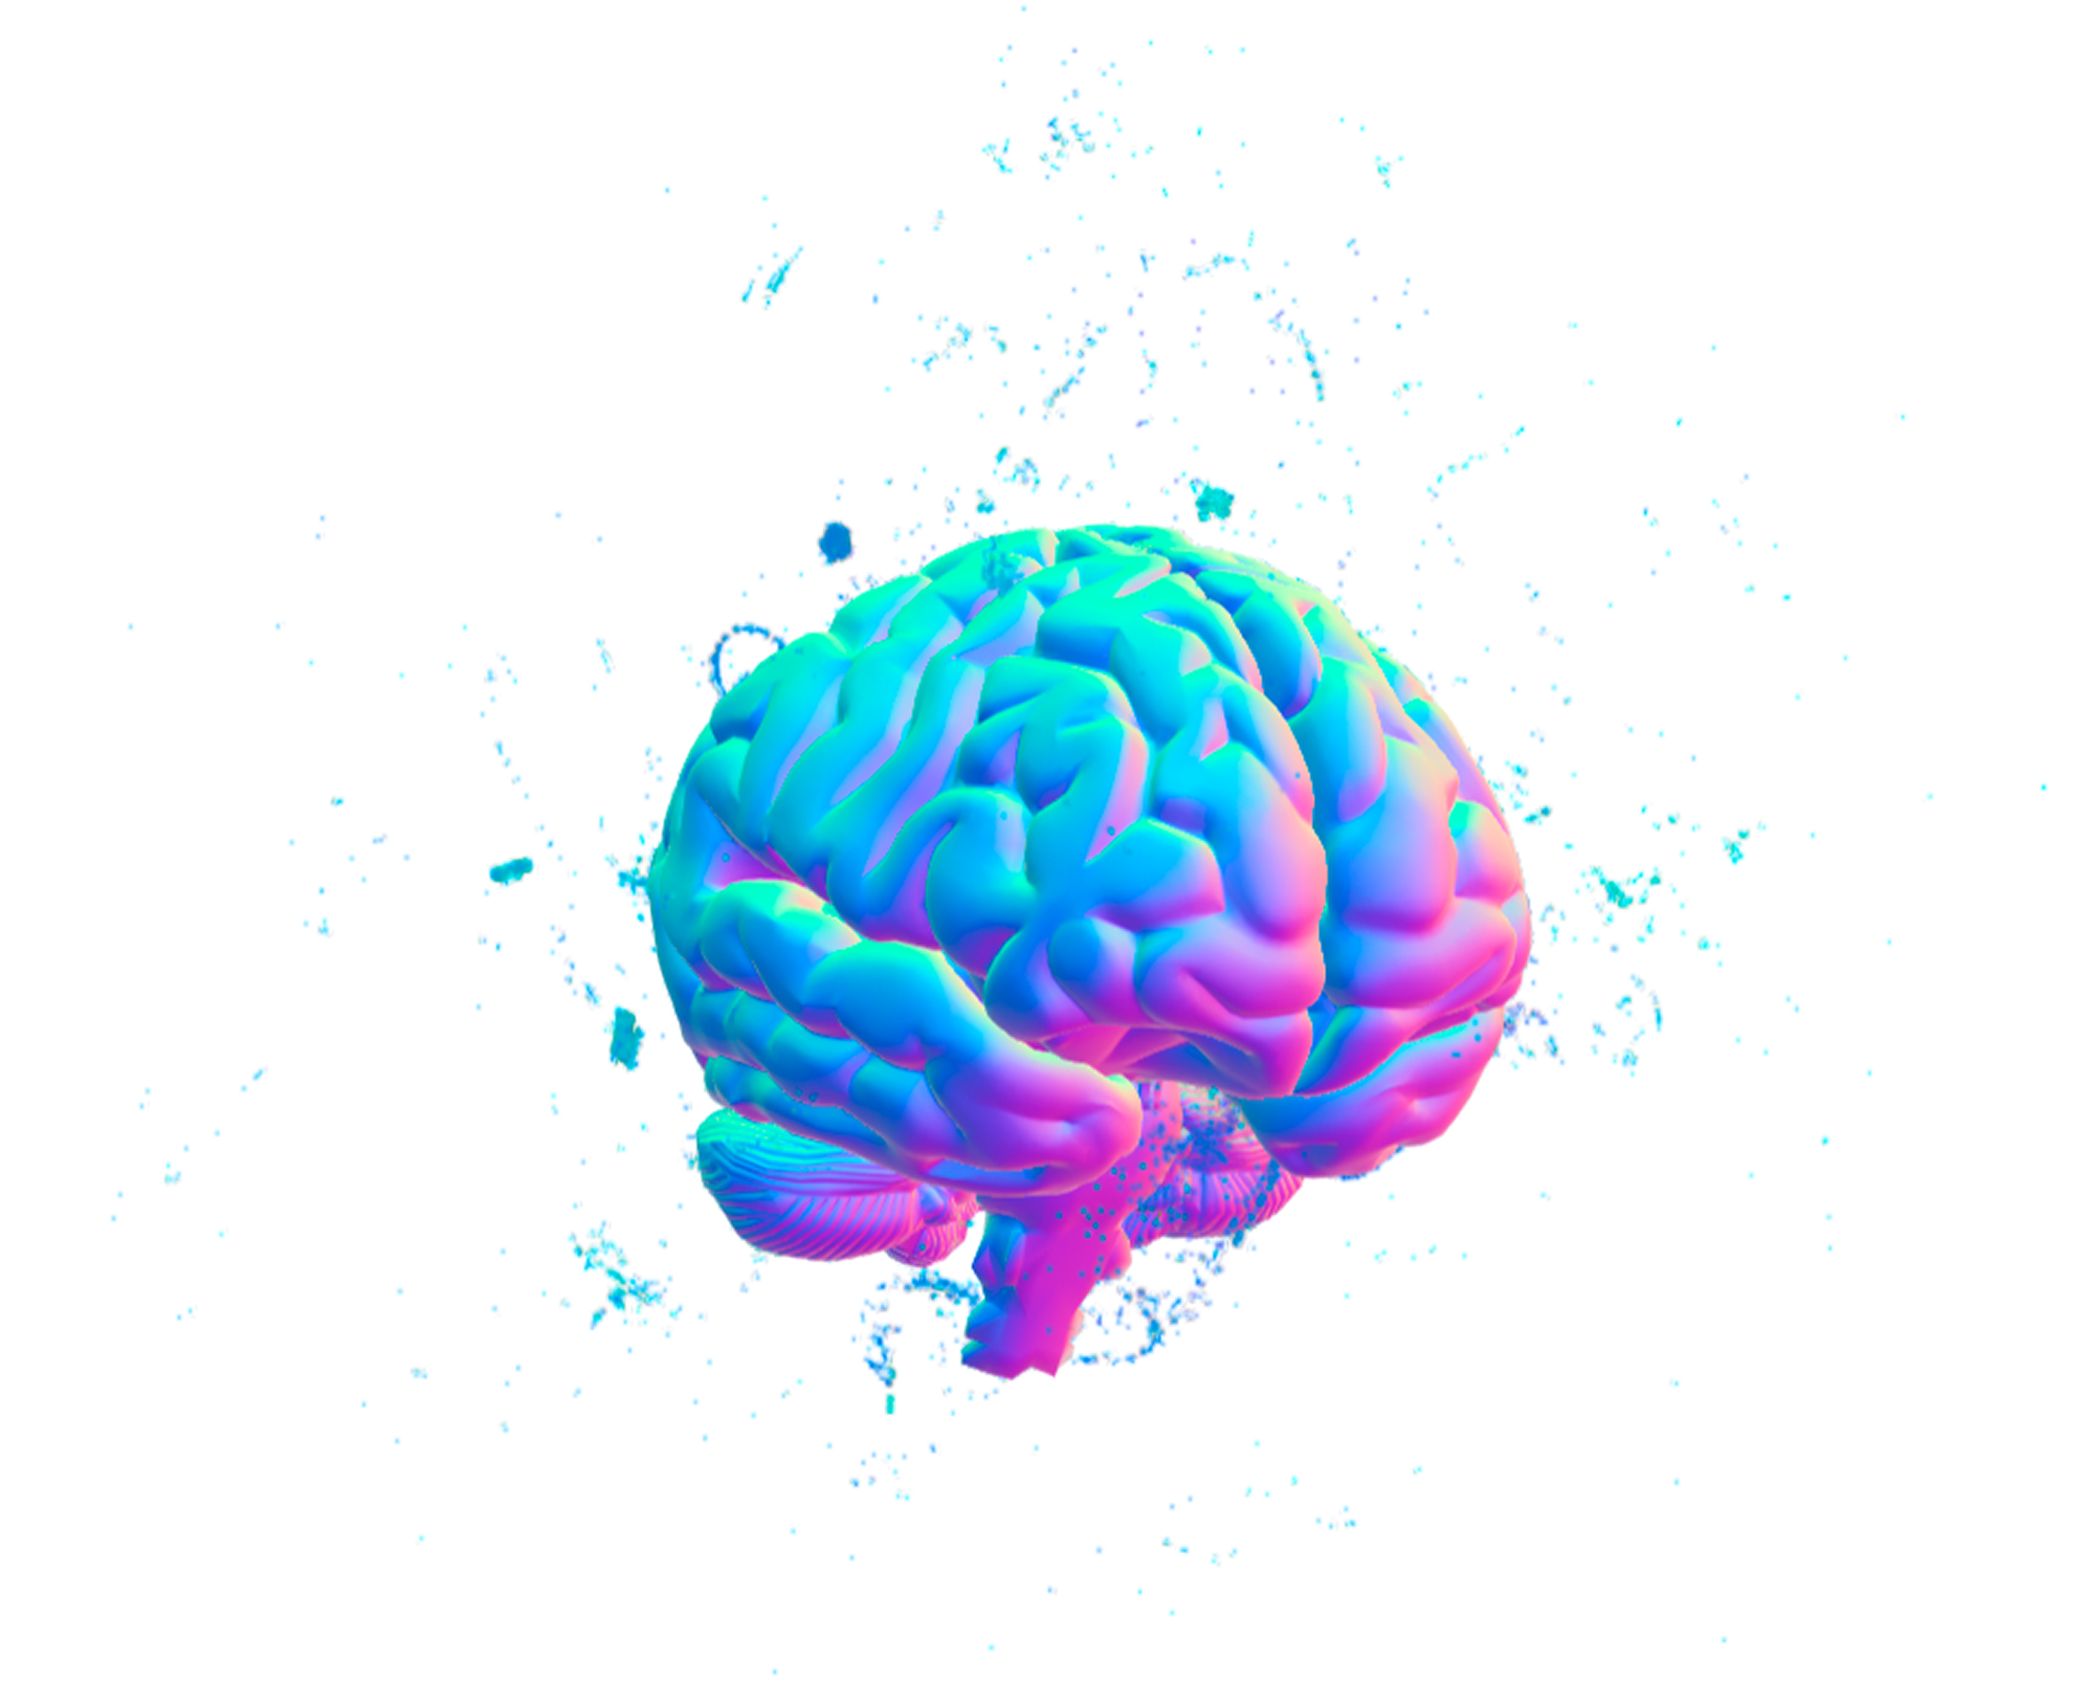
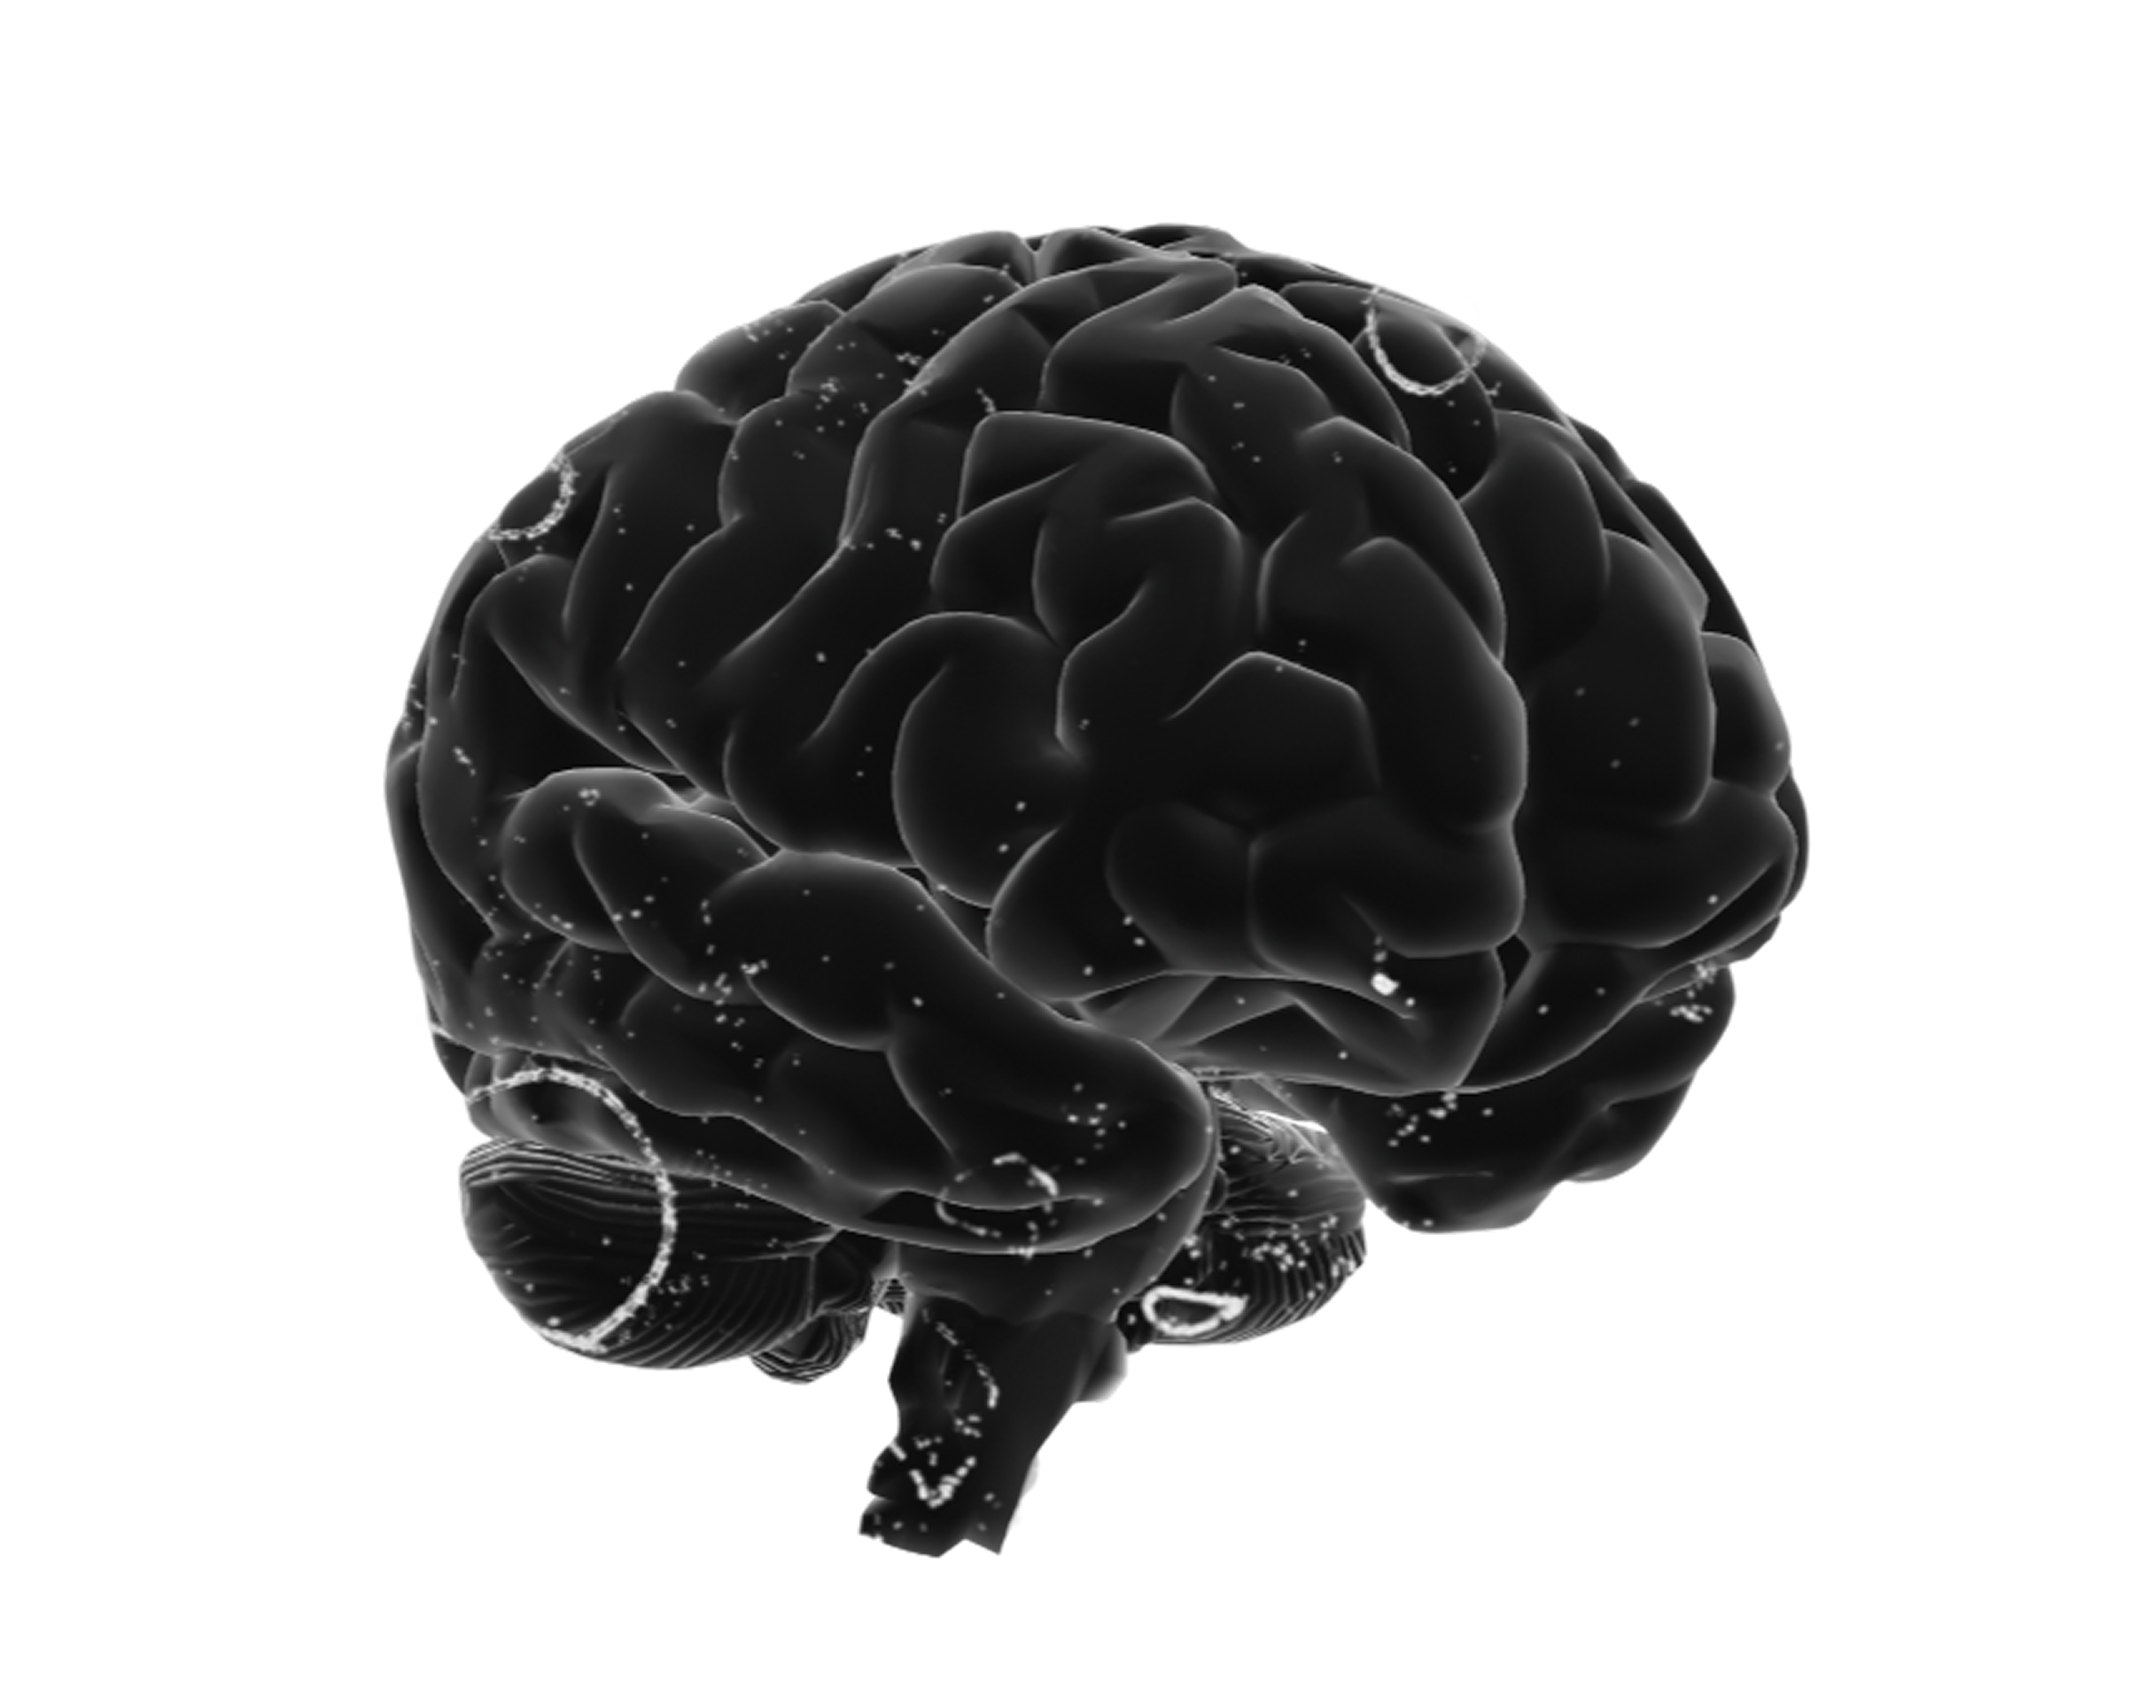
color scheme is changed

diff --git a/src/components/Navbar/index.tsx b/src/components/Navbar/index.tsx
@@ -34,7 +34,7 @@ export default function Header() {
   return (
     <header className="md:h-[150px] w-full mx-auto flex justify-center items-center navbar-gradient px-4">
       <div className="w-full max-w-[1260px] mx-auto mt-[51px]">
-        <div className=" rounded-[24px] p-[2px] overflow-hidden bg-gradient-to-b from-[#5F27CD] to-[#00CEC9] max-w-[1260px]">
+        <div className=" rounded-[24px] p-[2px] overflow-hidden border border-[#0F0F1A] max-w-[1260px]">
           <div className="w-full h-full bg-white rounded-[22px] flex items-center justify-between  mx-auto px-6 py-[20px] md:py-[20px] primary-shadow">
             <Link href="/" className="flex items-center">
               <Image
@@ -52,7 +52,7 @@ export default function Header() {
                 <Link
                   href="/"
                   className={cn(
-                    "text-primary text-[18px] ",
+                    "text-[#0F0F1A] text-[18px] ",
                     pathname === "/" && ""
                   )}
                 >
@@ -61,9 +61,9 @@ export default function Header() {
                 <Link
                   href="/#about"
                   className={cn(
-                    "text-primary text-[18px]",
+                    "text-[#0F0F1A] text-[18px]",
                     pathname === "/" &&
-                      "text-transparent bg-clip-text bg-gradient-to-r from-[#5F27CD] to-[#40E0D0]"
+                      "text-[#0F0F1A]"
                   )}
                 >
                   The Kognitiiv.ai Solution
@@ -71,7 +71,7 @@ export default function Header() {
                 <Link
                   href="/#capabilities"
                   className={cn(
-                    "text-primary text-[18px]",
+                    "text-[#0F0F1A] text-[18px]",
                     pathname === "/" && ""
                   )}
                 >
@@ -79,7 +79,7 @@ export default function Header() {
                 </Link>
               </nav>
 
-              <div className="p-[2px] rounded-[12px] bg-gradient-to-b from-[#5F27CD] to-[#00CEC9] md:inline-block hidden primary-shadow ">
+              <div className="p-[2px] rounded-[12px] border border-[#0F0F1A] md:inline-block hidden primary-shadow ">
                 <Button className="bg-white text-primary text-[18px] w-[180px] h-[50px] rounded-[10px]">
                   <Link href="/#contact-us">Join the Waitlist</Link>
                 </Button>
@@ -94,9 +94,9 @@ export default function Header() {
                 aria-label="Toggle menu"
               >
                 {mobileMenuOpen ? (
-                  <X color="#56AD37" size={24} />
+                  <X color="#0F0F1A" size={24} />
                 ) : (
-                  <Menu color="#56AD37" size={24} />
+                  <Menu color="#0F0F1A" size={24} />
                 )}
               </button>
             </div>
@@ -126,35 +126,35 @@ export default function Header() {
                     aria-label="Toggle menu"
                   >
                     {mobileMenuOpen ? (
-                      <X color="#56AD37" size={24} />
+                      <X color="#0F0F1A" size={24} />
                     ) : (
-                      <Menu color="#56AD37" size={24} />
+                      <Menu color="#0F0F1A" size={24} />
                     )}
                   </button>
                 </div>
                 
                 <Link
                   href="/"
-                  className="text-primary py-2 mt-6 font-rubik"
+                  className="text-[#0F0F1A] py-2 mt-6 font-rubik"
                   onClick={() => setMobileMenuOpen(false)}
                 >
                   The Problem
                 </Link>
                 <Link
                   href="/"
-                  className="text-primary py-2 font-rubik"
+                  className="text-[#0F0F1A] py-2 font-rubik"
                   onClick={() => setMobileMenuOpen(false)}
                 >
                   The Kognitiiv.ai Solution
                 </Link>
                 <Link
                   href="/"
-                  className="text-primary py-2 font-rubik"
+                  className="text-[#0F0F1A] py-2 font-rubik"
                   onClick={() => setMobileMenuOpen(false)}
                 >
                 How It Works
                 </Link>
-                <div className="p-[2px] rounded-[12px] bg-gradient-to-b from-[#5F27CD] to-[#00CEC9] primary-shadow ">
+                <div className="p-[2px] rounded-[12px] border border-[#0F0F1A] primary-shadow ">
                 <Button className="bg-white text-primary text-[18px] w-full h-[50px] rounded-[10px]">
                   <Link href="/">Join the Waitlist</Link>
                 </Button>

diff --git a/src/components/Signup/index.tsx b/src/components/Signup/index.tsx
@@ -16,21 +16,21 @@ const Signup = () => {
             height={214}
             className="w-full max-w-[588px]"
           />
-          <Text className="text-transparent text-center bg-clip-text bg-gradient-to-r from-[#5F27CD] to-[#40E0D0] text-[40px] font-semibold">
+          <Text className="text-transparent text-center text-[#0F0F1A] text-[40px] font-semibold">
             Kognitiiv.ai
           </Text>
         </div>
         <div className="w-full md:max-w-[514px] max-w-full">
           <form className="w-full max-w-full md:max-w-[514px] p-10 shadow-[0px_7px_29px_0px_#64646F33] bg-white rounded-[12px] mt-[60px] mb-[268px]">
             <div className="flex flex-col gap-[24px] md:flex-row mb-[30px]">
-              <div className="p-[2px] rounded-[12px] bg-gradient-to-b from-[#5F27CD] to-[#00CEC9]">
+              <div className="p-[2px] rounded-[12px] border border-[#0F0F1A]">
                 <input
                   type="text"
                   placeholder="Name"
                   className="px-[10px] py-[10px] w-full md:w-[150px] rounded-[10px] text-black outline-none bg-white border-none"
                 />
               </div>
-              <div className="p-[2px] rounded-[12px] bg-gradient-to-b from-[#5F27CD] to-[#00CEC9]">
+              <div className="p-[2px] rounded-[12px] border border-[#0F0F1A]">
                 <input
                   type="text"
                   placeholder="Last Name"
@@ -39,7 +39,7 @@ const Signup = () => {
               </div>
             </div>
 
-            <div className="p-[2px] rounded-[12px] bg-gradient-to-b from-[#5F27CD] to-[#00CEC9] mb-[30px]">
+            <div className="p-[2px] rounded-[12px] border border-[#0F0F1A] mb-[30px]">
               <input
                 type="email"
                 placeholder="Email"
@@ -47,7 +47,7 @@ const Signup = () => {
               />
             </div>
 
-            <div className="p-[2px] rounded-[12px] bg-gradient-to-b from-[#5F27CD] to-[#00CEC9] mb-[30px]">
+            <div className="p-[2px] rounded-[12px] border border-[#0F0F1A] mb-[30px]">
               <input
                 type="text"
                 placeholder="Company"
@@ -55,7 +55,7 @@ const Signup = () => {
               />
             </div>
 
-            <div className="p-[2px] rounded-[12px] bg-gradient-to-b from-[#5F27CD] to-[#00CEC9] mb-[70px]">
+            <div className="p-[2px] rounded-[12px] border border-[#0F0F1A] mb-[70px]">
               <select
                 className="px-[10px] py-[10px] w-full rounded-[10px] font-rubik text-[#0F0F1A] bg-white outline-none border-none"
                 
@@ -71,8 +71,7 @@ const Signup = () => {
 
             <div className="rounded-[12px]">
               <button
-                className="w-full h-[50px] rounded-[10px] bg-[#0F0F1A] text-white text-[18px] 
-        shadow-[0px_-10px_10px_-5px_#00B5AD0A,0px_10px_15px_-5px_#5F27CD80]"
+                className="w-full h-[50px] rounded-[10px] bg-[#0F0F1A] text-white text-[18px] primary-shadow"
               >
                 Join the Waitlist
               </button>

diff --git a/src/components/ui/Drawer.tsx b/src/components/ui/Drawer.tsx
@@ -61,7 +61,7 @@ const Drawer: React.FC<DrawerProps> = ({
       )}
       <div
         className={twMerge(
-          `fixed right-0 top-0 z-[999] h-full   w-[705px] ] mob:w-full transform overflow-x-hidden text-white  drawerbg transition-transform duration-300 bg-[#21201E]/90 ease-in-out ${
+          `fixed right-0 top-0 z-[999] h-full   w-[705px] ] mob:w-full transform overflow-x-hidden text-white  drawerbg transition-transform duration-300 bg-[#21201E]/90 ease-in-out primary-shadow ${
             isOpen
               ? "transition-transform duration-700 ease-in-out translate-x-0"
               : "transition-transform duration-700 ease-in-out  translate-x-full"
@@ -69,9 +69,6 @@ const Drawer: React.FC<DrawerProps> = ({
           }`,
           className
         )}
-        style={{
-          boxShadow: "0px 0px 10px rgba(0, 0, 0, 0.1)", // Add desired box shadow
-        }}
       >
         {/* Drawer Close Button */}
         <div className="mt-[20px]  px-[60px] mob:px-[25px] flex justify-end items-center">
